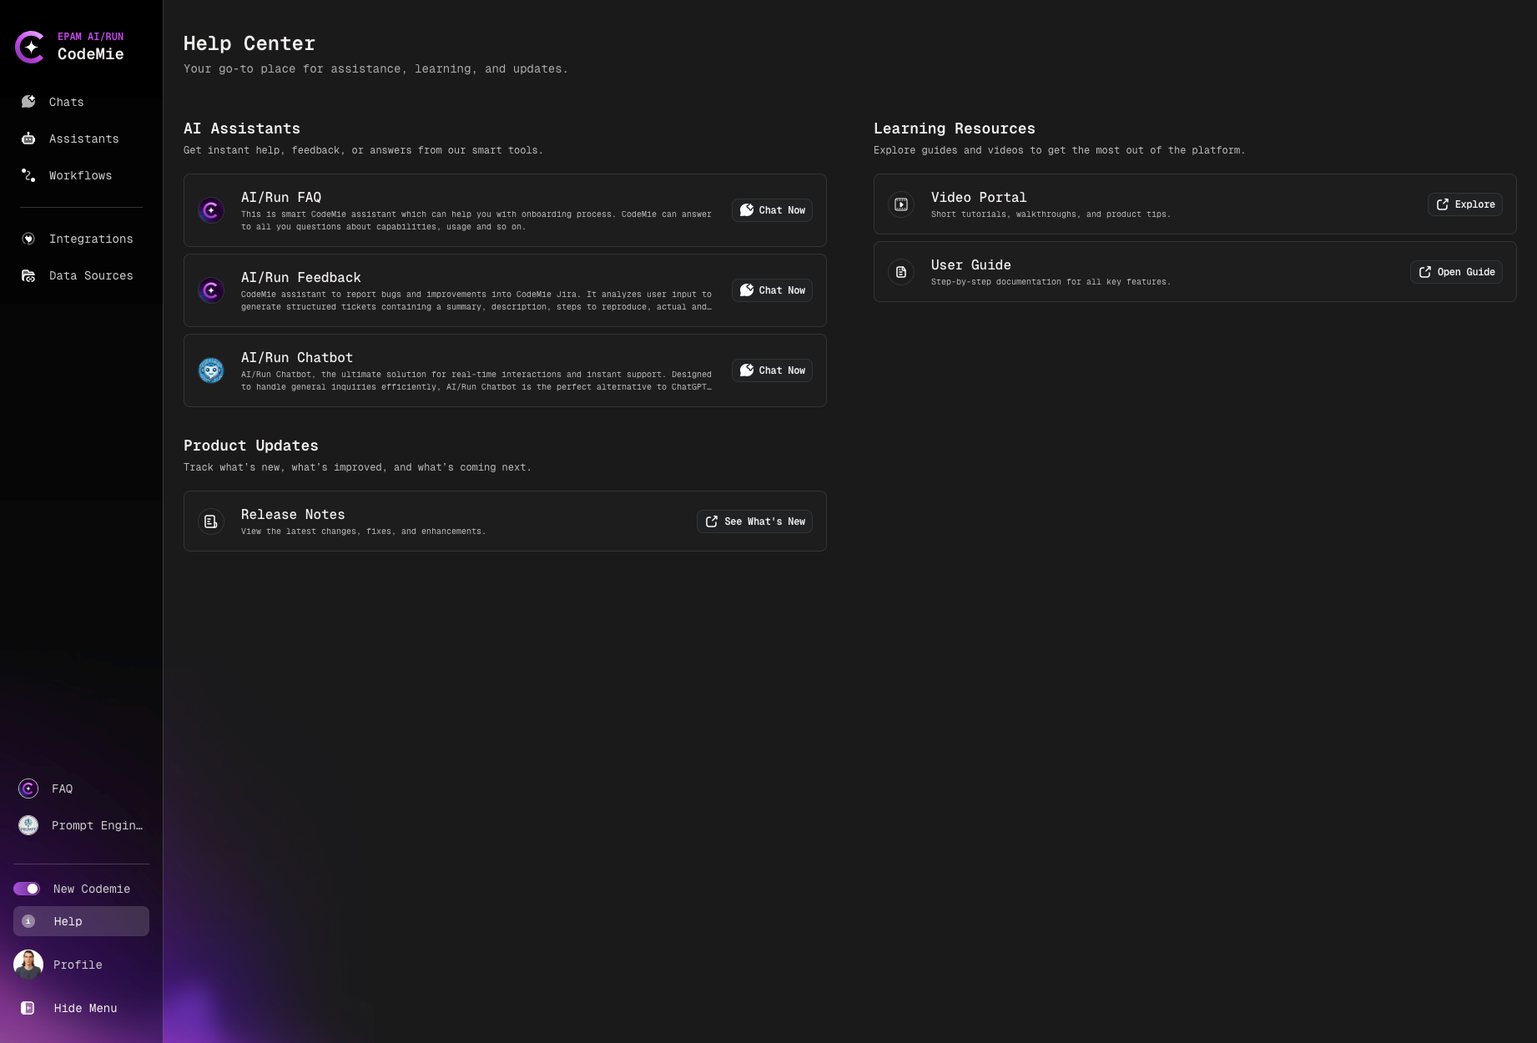
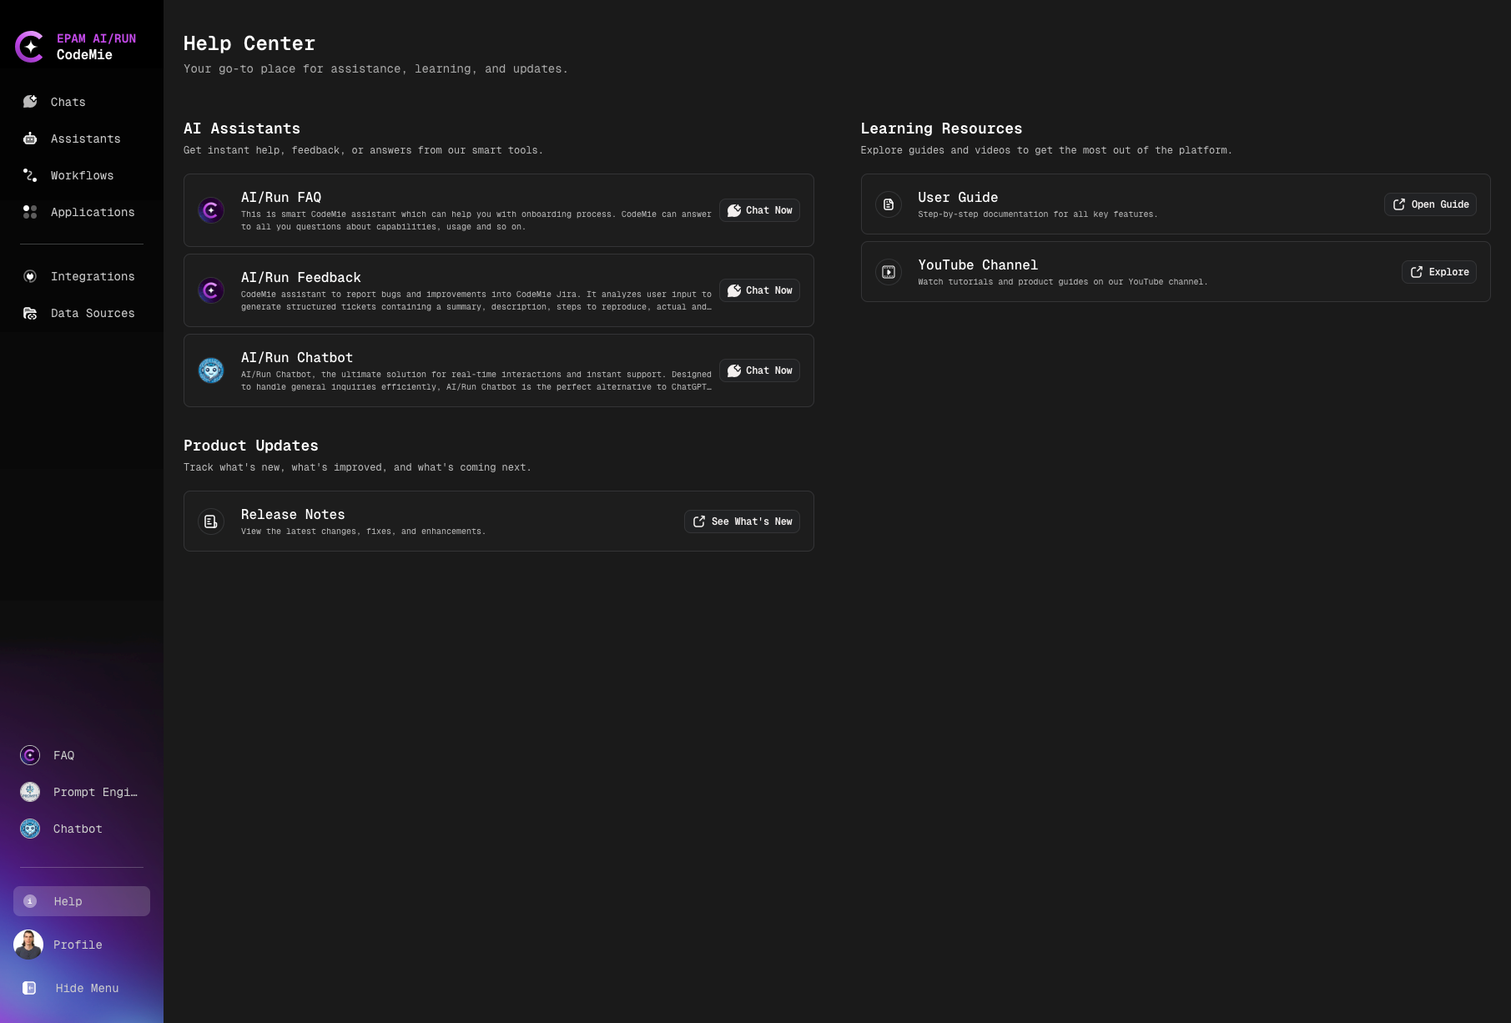
docs: align getting started section

diff --git a/sidebars.ts b/sidebars.ts
@@ -18,6 +18,7 @@ const sidebars: SidebarsConfig = {
       items: [
         'user-guide/getting-started/what-is-codemie',
         'user-guide/getting-started/codemie-capabilities',
+        'user-guide/getting-started/use-cases',
         'user-guide/getting-started/meet-faq-assistant',
         'user-guide/getting-started/help-center',
         'user-guide/getting-started/glossary',

diff --git a/docs/user-guide/getting-started/codemie-capabilities.md b/docs/user-guide/getting-started/codemie-capabilities.md
@@ -9,99 +9,20 @@ sidebar_position: 2
 
 AI/Run CodeMie efficiently addresses numerous tasks across varying difficulty levels. Below is an overview of AI/Run CodeMie's key capabilities:
 
-## Core Features
+| Capability                                   | Description                                                                                                                                                                                                                                                                                                                                                                          |
+| -------------------------------------------- | ------------------------------------------------------------------------------------------------------------------------------------------------------------------------------------------------------------------------------------------------------------------------------------------------------------------------------------------------------------------------------------ |
+| **AI-Powered SDLC Acceleration**             | CodeMie revolutionizes software development by offering intelligent assistance throughout the Software Development Life Cycle (SDLC). Intelligent assistance across all SDLC phases (BA, Dev, QA, PM) reduces process costs by 40-60%, automates routine work, and accelerates time-to-market through AI-driven automation and productivity gains.                                   |
+| **Universal Business Automation Platform**   | CodeMie extends far beyond software development—it's a cross-functional AI platform for any business domain. Marketplace agents support business operations, finance, HR, legal, marketing, sales, government, and operational workflows. Non-technical use cases include research & reporting, FAQ automation, document analysis, knowledge management, and web data summarization. |
+| **Agent Marketplace & Ecosystem**            | Centralized hub for discovering, sharing, and deploying ready-to-use AI assistants with community engagement metrics, adoption tracking, and clone-to-customize capabilities. Accelerates solution deployment by leveraging proven, reusable components.                                                                                                                             |
+| **Universal MCP Protocol Support**           | Industry-standard Model Context Protocol (MCP) integration enables connection to ANY external tool without custom development. Run community MCP servers (JetBrains, Claude, time APIs, databases) or build proprietary integrations. Kubernetes isolation with per-conversation containers ensures security.                                                                        |
+| **Smart Assistant Ecosystem**                | Pre-built, role-specific AI assistants and custom assistant constructor enable teams to deploy AI capabilities instantly or build tailored solutions matching unique workflows. Multi-agent orchestration coordinates specialized sub-assistants for complex tasks.                                                                                                                  |
+| **Intelligent Knowledge Management**         | Semantic search with vector embeddings across Git repositories, Jira, Confluence, PDFs, Google Docs, AWS Knowledge Bases, and custom data sources. Transforms unstructured project knowledge into actionable AI context—ensuring assistants understand YOUR codebase, YOUR documentation, YOUR business rules.                                                                       |
+| **Intelligent Codebase Co-Pilot**            | Beyond code completion: comprehensive Q&A on codebase, automatic code implementation with PR creation, unit test generation (TestMate), code analysis, vulnerability detection, and auto-documentation. Understands entire project context, coding styles, and dependencies.                                                                                                         |
+| **Python/NodeJS SDK & Programmatic Control** | Full platform control via Python and NodeJS SDK: create/manage assistants, execute workflows, synchronize with Git repositories, export/import project data programmatically. Structured outputs with Pydantic models enable type-safe integration into CI/CD pipelines.                                                                                                             |
+| **Multi-Agent Workflow Automation**          | YAML-configured workflows enable multiple AI agents to collaborate on complex end-to-end processes—from requirements analysis to code deployment. Conditional logic, human-in-the-loop controls, context store optimization, scheduled CRON execution.                                                                                                                               |
+| **Enterprise Integration & Extensibility**   | 50+ tools covering VCS (Git/GitHub/GitLab/AzureDevOps), Project Management (Jira/Confluence/AzureDevOps), Cloud (AWS/Azure/GCP/Kubernetes), Research (Google/Wikipedia), Data Management. Plugin SDK allows custom MCP server creation for proprietary systems.                                                                                                                      |
+| **Enterprise Governance & Collaboration**    | Multi-tenancy with project isolation, shareable conversations, versioned system instructions, comprehensive usage analytics for cost management. Admin MCP catalog management controls available integrations. Role-based access and credential security.                                                                                                                            |
+| **Pluggable Architecture**                   | Enables integration with any tool and workload with [codemie-plugins](https://pypi.org/project/codemie-plugins), regardless of programming language or runtime environment. Designed to be distributed, allowing plugins to run remotely on workstations, within secure perimeters, across cloud environments, or in CI/CD pipelines. 100% LangChain compatible.                     |
+| **IDE Plugins**                              | Native IDE integrations: JetBrains plugin, VS Code GH Copilot Extension, and VS Code Native plugin for seamless development experience.                                                                                                                                                                                                                                              |
 
-### Comprehensive SDLC Smart Assistance and Assistants Library
-
-AI/Run CodeMie offers robust smart assistance across all phases of the SDLC process by leveraging a variety of AI assistant roles, such as Business Analyst (BA), Developer, Quality Assurance (QA), Project Manager (PM), and more. These pre-built AI assistants enhance performance and productivity, and automate routine work, significantly reducing process costs and accelerating the software development cycle. The platform comes with a comprehensive library of pre-built AI assistants tailored to various roles within the SDLC to suit the diverse needs within a project.
-
-### Assistants Constructor
-
-Provides the flexibility to create personalized assistants equipped with specific tools and abilities tailored to your project's needs.
-
-### Indexing and Data Management
-
-AI/Run CodeMie provides options for data indexing, including the ability to:
-
-- Monitor the current progress and status of the indexing process
-- Perform incremental or full reindexing
-- Manage indexed data sources effectively
-
-Supported data sources include Jira, Confluence, various file formats (PDF, PPT, Excel, etc.), and Git.
-
-### Support for Multi-Agent Workflows
-
-AI/Run CodeMie supports multi-agent workflows, allowing multiple AI assistants to collaborate seamlessly on complex tasks and workflows. This capability covers use cases where different agents need to interact and share information to achieve a common goal, enhancing coordination and efficiency across various phases of the SDLC.
-
-### Ease of Use for Beginners
-
-Simple use cases for newcomers include:
-
-- Code review
-- Newcomer training
-- User story creation
-
-These require minimal setup, such as configuring your Git token for code-related tasks or your Jira token for project management tasks.
-
-## Extensive Library of Tools
-
-AI/Run CodeMie includes a wide array of tools to support various aspects of software development and project management:
-
-### Version Control Systems (VCS)
-
-Tools for managing and tracking changes in the codebase, such as Git.
-
-### Codebase Tools
-
-Tools for code review, static code analysis, and automated code formatting.
-
-### Research Tools
-
-Tools to assist in gathering and organizing research data and documentation.
-
-### Cloud Tools
-
-Integration with major cloud providers (AWS, GCP, Azure) for deployment, monitoring, and management of cloud resources.
-
-### Project Management Tools
-
-- **Jira**: For project management, task tracking, and issue tracking
-- **Confluence**: For documentation, knowledge sharing, and collaboration
-
-### Additional Tools
-
-- **Open API**: Integration with various open APIs to extend functionality and connect with other services
-- **Notification Tools**: Tools for sending notifications and alerts via email, chat, or other communication channels
-- **Data Management Tools**: Tools for querying Elasticsearch indexes
-- **Access Management**: Keycloak integration
-- **Plugin System**: Extensible plugin architecture
-- **File Management**: Tools for file operations
-- **Quality Assurance**: Testing and QA tools
-
-## Best Practices
-
-### Data Source Usage
-
-- There is no priority or sequential system in place. Everything depends on the given instructions
-- You can instruct the model to use a specific data source for a particular use case
-- Provide a description for the data source when it is created
-- Data source descriptions are provided to the model so it can understand better use cases for it
-
-### System Instructions
-
-- System Instructions (System prompt) extends based on data source description
-- If contradictions arise, the model will use its creative problem-solving abilities to address them
-- The data source does not have rules, only description
-
-### Context and Queries
-
-- The model has a context window, but it is irrelevant to data source size
-- The model answer will depend on query quality
-- With queries that are specific and on point, there are no problems even with thousands of data sources
-- If a poor query is provided (e.g., "tell me about something"), the answer would be vague
-
-### Instructions Guidelines
-
-- The smaller and clearer the instructions, the better
-- Instructions must be uncontradictory, as this will reduce the risk of confusing LLM
-- Other than the context window, there is no limit
+These capabilities ultimately enhance productivity and reduce costs. The development of such a powerful assistant necessitates extensive customization and fine-tuning. The following sections will delve into the intricate adjustments and configurations required to harness the full potential of AI/Run CodeMie.

diff --git a/docs/user-guide/getting-started/use-cases.md b/docs/user-guide/getting-started/use-cases.md
@@ -1,0 +1,25 @@
+---
+id: use-cases
+title: Use Cases
+sidebar_label: Use Cases
+sidebar_position: 3
+---
+
+# Use Cases
+
+CodeMie transforms how teams work across the entire software development lifecycle and beyond. From development to business operations, the platform delivers measurable impact across your entire organization.
+
+Below are practical use cases demonstrating how teams leverage CodeMie to solve real challenges and achieve significant productivity gains:
+
+| Capability                                | Use Cases                                                                                                                                                                                                                                                                                          | Business Impact                                                                                                                    |
+| ----------------------------------------- | -------------------------------------------------------------------------------------------------------------------------------------------------------------------------------------------------------------------------------------------------------------------------------------------------- | ---------------------------------------------------------------------------------------------------------------------------------- |
+| **Development & Coding**                  | Talk to your codebase and discovery<br/>Automatic code implementation (PR creation, IDE development, local development, CI/CD, etc.)<br/>Unit test generation<br/>Code review automation<br/>Legacy code reverse engineering<br/>Dependency analysis and refactoring<br/>Migration & Modernization | Accelerates onboarding by 50-70%, reduces manual code review by 40%, enables safe modernization of legacy systems                  |
+| **Knowledge Management**                  | Project documentation auto-generation<br/>Context management and search across code, Jira, Confluence, PDFs<br/>FAQ automation from existing documentation<br/>Newcomer training and onboarding<br/>Technical debt assessment                                                                      | Preserves organizational knowledge, reduces onboarding time, eliminates knowledge silos, survives team turnover                    |
+| **Project Management Automation**         | Epic and user story creation in Jira<br/>Task breakdown and technical planning<br/>Automated status updates and reporting<br/>Sprint planning assistance<br/>Timeline tracking and resource allocation                                                                                             | Reduces PM administrative work by 35-50%, improves cross-team alignment, accelerates requirement-to-implementation cycle           |
+| **Business Analysis**                     | Requirements gathering and refinement<br/>User story composition from stakeholder and meeting inputs<br/>Business rule documentation<br/>Gap analysis and feasibility studies<br/>Stakeholder communication templates                                                                              | Improves requirements quality by 30-40%, reduces ambiguity, ensures business-tech alignment, accelerates discovery phase           |
+| **Quality Assurance & Testing**           | Automated test case generation<br/>Test checklist creation from user stories<br/>Regression testing recommendations<br/>Code vulnerability detection<br/>Test documentation generation                                                                                                             | Reduces testing effort by 30-50%, improves test coverage, identifies security issues early, enables continuous quality             |
+| **Research & Intelligence**               | Web research summarization (Google, Wikipedia, Tavily)<br/>Competitive analysis and market research<br/>Technical documentation synthesis<br/>Trend analysis and reporting<br/>Multi-source information aggregation                                                                                | Reduces research time by 60-70%, provides actionable insights, supports data-driven decision-making, eliminates manual aggregation |
+| **Cloud & Infrastructure Management**     | Cloud resource deployment (AWS, Azure, GCP)<br/>Kubernetes cluster management<br/>Infrastructure optimization recommendations<br/>Security best practices enforcement<br/>Cost optimization analysis                                                                                               | Reduces infrastructure management overhead by 40%, improves security posture, optimizes cloud spending, accelerates deployments    |
+| **Application Modernization & Migration** | Legacy system analysis and documentation<br/>Migration strategy planning<br/>Code pattern detection and transformation<br/>Apps migration and modernization workflows<br/>Risk assessment and mitigation planning                                                                                  | Reduces migration risk, minimizes downtime, accelerates modernization timelines by 30-50%, ensures functionality preservation      |
+| **Enterprise Workflows & Automation**     | Multi-agent orchestrated processes<br/>End-to-end SDLC automation (requirements → deployment)<br/>Scheduled workflow execution (CRON)                                                                                                                                                              | Eliminates manual handoffs, reduces process cycle time by 40-60%, ensures consistency, enables 24/7 automation                     |
+| **Business Operations (Beyond SDLC)**     | Financial report generation and analysis<br/>HR document processing and onboarding<br/>Legal document review and compliance checks<br/>Marketing content generation<br/>Sales proposal automation                                                                                                  | Universal platform for ANY business function—eliminates departmental silos, reduces operational costs enterprise-wide              |

diff --git a/docs/user-guide/getting-started/what-is-codemie.md b/docs/user-guide/getting-started/what-is-codemie.md
@@ -7,22 +7,10 @@ sidebar_position: 1
 
 # What is AI/Run CodeMie?
 
-AI/Run CodeMie is a sophisticated AI assistant tool tailored specifically for developers. AI/Run CodeMie is an innovative LLM-powered platform designed to help users address specific challenges and find solutions for their needs.
+AI/Run CodeMie is the dynamic AI-agents platform revolutionizing the way businesses approach project management, business analysis, development, testing, devops, and more, through the power of AI-assistants. In today’s competitive and fast-paced software development environment, efficiency and automation are key. CodeMie is crafted to meet these needs by enabling users to create and customize AI-assistants tailored to their specific project requirements.
 
-Unlike conventional large language models (LLMs) such as ChatGPT, Bard, and Copilot, AI/Run CodeMie is engineered to support development processes more comprehensively. It integrates seamlessly with essential development tools including Git, Jira, Confluence, and various search engines. This integration empowers AI/Run CodeMie to go beyond the capabilities of a standard chatbot, enabling it to manage Jira issues, devise appropriate implementations, and generate pull requests.
+CodeMie is not just about automation; it's about smart automation. It allows users to design AI-assistants capable of performing actual tasks – from creating issues in Jira to managing pull requests in Git. This hands-on approach ensures that the AI-assistants do not merely provide suggestions but take part in the workflow, executing tasks that traditionally required manual effort.
 
-## Key Capabilities
+The platform's versatility extends across various domains within software development and project management, ensuring that whether you're analyzing business requirements, leading development teams, or overseeing quality assurance, there's an AI-assistant that can be customized to your needs.
 
-AI/Run CodeMie leverages AI to:
-
-- Automate coding tasks
-- Reduce technical debt
-- Streamline code reviews and legacy application migrations
-- Enhance onboarding
-- Improve information access and analysis
-- Optimize call center operations
-- Ensure consistent customer support
-- Maintain data security
-- Analyze market sentiment
-
-These capabilities ultimately enhance productivity and reduce costs. The development of such a powerful assistant necessitates extensive customization and fine-tuning. The following sections will delve into the intricate adjustments and configurations required to harness the full potential of AI/Run CodeMie.
+CodeMie stands as a testament to the potential of AI in enhancing productivity and streamlining operations. It's built for businesses looking to leverage the latest in AI technology to not only automate their processes but also to innovate how these processes are executed. With CodeMie, we're moving towards a future where AI-assistants are integral to the development lifecycle, making software projects more efficient, less error-prone, and faster to market.

diff --git a/docs/user-guide/getting-started/glossary.md b/docs/user-guide/getting-started/glossary.md
@@ -86,14 +86,17 @@ Integration with external services and systems that extend assistant capabilitie
 
 ## I
 
-### IDE Plugin
+### IDE
 
-Native IDE extensions that bring CodeMie capabilities directly into your development environment, allowing access to assistants, tools, and project resources without leaving your IDE.
+Native IDE extensions and plugins that bring CodeMie capabilities directly into your development environment, allowing access to assistants, tools, and project resources without leaving your IDE.
 
 **Supported IDEs:**
 
-- **Visual Studio Code (VSCode)**
-- **JetBrains IDEs** - IntelliJ IDEA, WebStorm, PyCharm, and others
+- **Visual Studio Code (VSCode)** extensions:
+  - [GH Copilot Extension](https://marketplace.visualstudio.com/items?itemName=ai-run-codemie.codemie)
+  - [Native VS Code Extension](https://marketplace.visualstudio.com/items?itemName=ai-run-codemie.ai-run-codemie)
+
+- **JetBrains** plugin: [IntelliJ IDEA, WebStorm, PyCharm, and others](https://plugins.jetbrains.com/plugin/27730-ai-run-codemie)
 
 ### Integration
 
@@ -154,7 +157,7 @@ Third-party provider configurations that enable integration of external data sou
 
 ### Plugin
 
-An extensible component that adds functionality to the CodeMie platform. Plugins can provide additional tools, integrations, or capabilities for assistants to use.
+An extensible component that adds functionality to the CodeMie platform. Plugins can provide additional tools, integrations, or capabilities for assistants to use. Available at [codemie-plugins](https://pypi.org/project/codemie-plugins/).
 
 ---
 

diff --git a/docs/user-guide/getting-started/help-center.md b/docs/user-guide/getting-started/help-center.md
@@ -7,9 +7,9 @@ sidebar_position: 4
 
 # Help Center
 
-![Help Center](./images/image165.png)
-
 The Help Center page serves as a central hub for getting help, learning, and updates on the CodeMie platform. It provides users with access to various support resources and learning materials.
+
+![Help Center](./images/image165.png)
 
 ## AI Assistants
 
@@ -31,13 +31,13 @@ The perfect solution for real-time interaction and instant support. Designed to 
 
 Section for learning the platform and getting the most out of it:
 
-### Video Portal
+### Youtube channel
 
-Short tutorials, step-by-step instructions, and product tips: [Video Portal](https://videoportal.epam.com/channel/z1Je1k9Jv5/videos)
+Watch tutorials and product guides on our YouTube channel.: [Youtube channel](https://www.youtube.com/@EPAMAIRunCodeMie)
 
-![Video Portal](./images/image81.png)
+![Youtube channel](./images/image81.png)
 
-### User Guide
+### User Guides
 
 Step-by-step documentation for all key features.
 
@@ -45,8 +45,8 @@ Step-by-step documentation for all key features.
 
 Section for tracking new features and improvements:
 
-![Product Updates](./images/image90.png)
-
 ### Release Notes
 
 View the latest changes, fixes, and improvements.
+
+![Product Updates](./images/image90.png)

diff --git a/docs/user-guide/getting-started/meet-faq-assistant.md b/docs/user-guide/getting-started/meet-faq-assistant.md
@@ -19,7 +19,7 @@ To initiate your first conversation, click on the FAQ button:
 Content of help might be changed for different projects.
 :::
 
-## Example Usage
+## Example of Usage
 
 1. Try to ask something related to AI/Run CodeMie:
 
